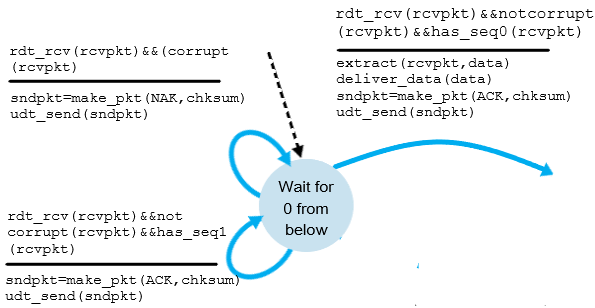
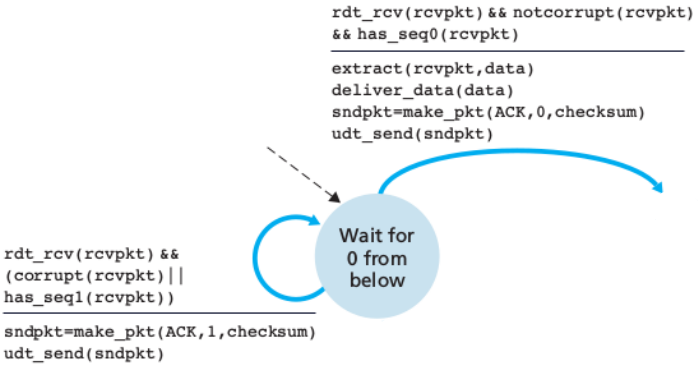
origin

diff --git a/fsm.html b/fsm.html
@@ -170,64 +170,51 @@
             <div class="d-flex justify-content-between flex-wrap flex-md-nowrap align-items-center pt-3 pb-2 mb-3 border-bottom">
                 <h3>Prinsip Kerja di Sisi Penerima</h3>
             </div>
-            <img class="receiver" src="img/FSM_Receiver0.png" alt="">
+            <img class="receiver" src="img/FSM_Receiver.png" alt="">
             <p>Gambar di atas menunjukkan FSM untuk rdt 3.0 pada sisi pengirim (sender).</p>
             <b>Wait for 0 from Below</b>
             <p><img class="receiver1" src="img/FSM_Receiver01.png" alt=""></p>
-            <p>Pada state ini, receiver rdt_rcv menunggu panggilan 0 dari bawah (layer data link). Selain itu, pada state ini terdapat tiga event, yaitu:</p>
+            <p>Pada state ini, receiver rdt_rcv menunggu panggilan 0 dari bawah (layer data link). Selain itu, pada state ini terdapat dua event, yaitu:</p>
             <ol>
-              <b><li>rdt_rcv(rcvpkt)&&(corrupt(rcvpkt)</li></b>
-              <p>Event ini terjadi jika terdapat data rusak (NAK). Event ini diikuti oleh dua action yang di eksekusi secara berurut, yaitu:
-                <ul>
-                  <li><b>sndpkt=make_pkt(NAK,chksum)</b>, membuat paket NAK dengan checksum.</li>
-                  <li><b>udt_send(sndpkt)</b>, mengirimkan sndpkt yang berisi NAK dan checksum agar di sisi sender menerima pemberitahuan paket rusak.</li>
-                </ul>
-              </p>
               <b><li>rdt_rcv(rcvpkt)&& notcorrupt(rcvpkt)&&has_seq0(rcvpkt)</li></b>
               <p>Event ini terjadi jika tidak terdapat data yang rusak (ACK). Event ini diikuti oleh empat aksi, yaitu:
                 <ul>
                   <li><b>extract(rcvpkt,data)</b>, mengekstrak paket data yang diterima dari sender dengan sequence number 0.</li>
                   <li><b>deliver_data(data)</b>, mengirimkan data ke layer aplikasi (di sisi penerima).</li>
-                  <li><b>sndpkt=make_pkt(ACK,chksum)</b>, membuat paket ACK dan checksum.</li>
-                  <li><b>udt_send(sndpkt)</b>, mengirimkan sndpkt yang berisi ACK dan checksum agar di sisi sender menerima pemberitahuan paket sampai dan tidak rusak.</li>
+                  <li><b>sndpkt=make_pkt(ACK, 0, checksum)</b>, membuat paket yang berisi ACK, sequence number 0 dan checksum.</li>
+                  <li><b>udt_send(sndpkt)</b>, mengirimkan sndpkt agar di sisi sender menerima pemberitahuan paket sampai dan tidak rusak.</li>
                 </ul>
               </p>
-              <b><li>rdt_rcv(rcvpkt)&& not corrupt(rcvpkt)&&has_seq1(rcvpkt)</li></b>
-              <p>Event ini terjadi jika tidak terdapat data yang rusak, namun sequence number yang diterima bernilai 1. Adapun Action yang dieksekusi yakni:
-              <ul>
-                <li><b>sndpkt=make_pkt(ACK,chksum)</b>, membuat paket ACK dan checksum.</li>
-                  <li><b>udt_send(sndpkt)</b>, mengirimkan sndpkt yang berisi ACK dan checksum agar di sisi sender menerima pemberitahuan paket sampai dan tidak rusak.</li>
-              </ul>
+              <b><li>rdt_rcv(rcvpkt)&&(corrupt(rcvpkt)||has_seq1(rcvpkt))</li></b>
+              <p>Event ini terjadi jika terdapat data rusak atau nilai sequence adalah 1. Event ini diikuti oleh dua action yang di eksekusi secara berurut, yaitu:
+                <ul>
+                  <li><b>sndpkt=make_pkt(ACK, 1, checksum)</b>, membuat paket yang berisi ACK, sequence 1 dengan checksum.</li>
+                  <li><b>udt_send(sndpkt)</b>, mengirimkan sndpkt yang berisi NAK dan checksum agar di sisi sender menerima pemberitahuan paket rusak.</li>
+                </ul>
               </p>
             </ol>
             <b>Wait for 1 from Below</b>
             <p><img class="receiver1" src="img/FSM_Receiver02.png" alt=""></p>
             <p>Pada state 2 yaitu menunggu panggilan 1 dari bawah (layer data link), memiliki Event yang sama dengan state <b>Wait for 0 from below</b>. yaitu:</p>
             <ol>
-              <b><li>rdt_rcv(rcvpkt)&&(corrupt(rcvpkt)</li></b>
-              <p>Event ini terjadi jika terdapat data rusak (NAK). Event ini diikuti oleh dua action yang di eksekusi secara berurut, yaitu:
+              <b><li>rdt_rcv(rcvpkt)&&(corrupt(rcvpkt)||has_seq0(rcvpkt))</li></b>
+              <p>Event ini terjadi jika terdapat data rusak atau sequence number yang diterima bernilai 0. Event ini diikuti oleh dua action yang di eksekusi secara berurut, yaitu:
                 <ul>
-                  <li><b>sndpkt=make_pkt(NAK,chksum)</b>, membuat paket NAK dengan checksum.</li>
-                  <li><b>udt_send(sndpkt)</b>, mengirimkan sndpkt yang berisi NAK dan checksum agar di sisi sender menerima pemberitahuan paket rusak.</li>
+                  <li><b>sndpkt=make_pkt(ACK, 0, checksum)</b>, membuat paket yang berisi ACK, sequence number 0, dengan checksum.</li>
+                  <li><b>udt_send(sndpkt)</b>, mengirimkan sndpkt agar di sisi sender menerima pemberitahuan paket rusak.</li>
                 </ul>
               </p>
-              <b><li>rdt_rcv(rcvpkt)&& not corrupt(rcvpkt)&&has_seq0(rcvpkt)</li></b>
-              <p>Event ini terjadi jika tidak terdapat data yang rusak, namun sequence number yang diterima bernilai 0. Adapun Action yang dieksekusi yakni:
-              <ul>
-                <li><b>sndpkt=make_pkt(ACK,chksum)</b>, membuat paket ACK dan checksum.</li>
-                  <li><b>udt_send(sndpkt)</b>, mengirimkan sndpkt yang berisi ACK dan checksum agar di sisi sender menerima pemberitahuan paket sampai dan tidak rusak.</li>
-              </ul>
-              </p>
-              <b><li>rdt_rcv(rcvpkt)&& notcorrupt(rcvpkt)&&has_seq0(rcvpkt)</li></b>
+              <b><li>rdt_rcv(rcvpkt)&& notcorrupt(rcvpkt)&&has_seq1(rcvpkt)</li></b>
               <p>Event ini terjadi jika tidak terdapat data yang rusak (ACK). Event ini diikuti oleh empat aksi, yaitu:
                 <ul>
                   <li><b>extract(rcvpkt,data)</b>, mengekstrak paket data yang diterima dari sender dengan sequence number 1.</li>
                   <li><b>deliver_data(data)</b>, mengirimkan data ke layer aplikasi (di sisi penerima).</li>
-                  <li><b>sndpkt=make_pkt(ACK,chksum)</b>, membuat paket ACK dan checksum.</li>
-                  <li><b>udt_send(sndpkt)</b>, mengirimkan sndpkt yang berisi ACK dan checksum agar di sisi sender menerima pemberitahuan paket sampai dan tidak rusak.</li>
+                  <li><b>sndpkt=make_pkt(ACK, 1, checksum)</b>, membuat paket yang berisi ACK, sequence number 1, dan checksum.</li>
+                  <li><b>udt_send(sndpkt)</b>, mengirimkan sndpkt agar di sisi sender menerima pemberitahuan paket sampai dan tidak rusak.</li>
                 </ul>
               </p>
             </ol>
+            <p>Siklus ini akan terus berlanjut hingga proses pengiriman data selesai.</p>
            </nav>
           </main>
         </div>
